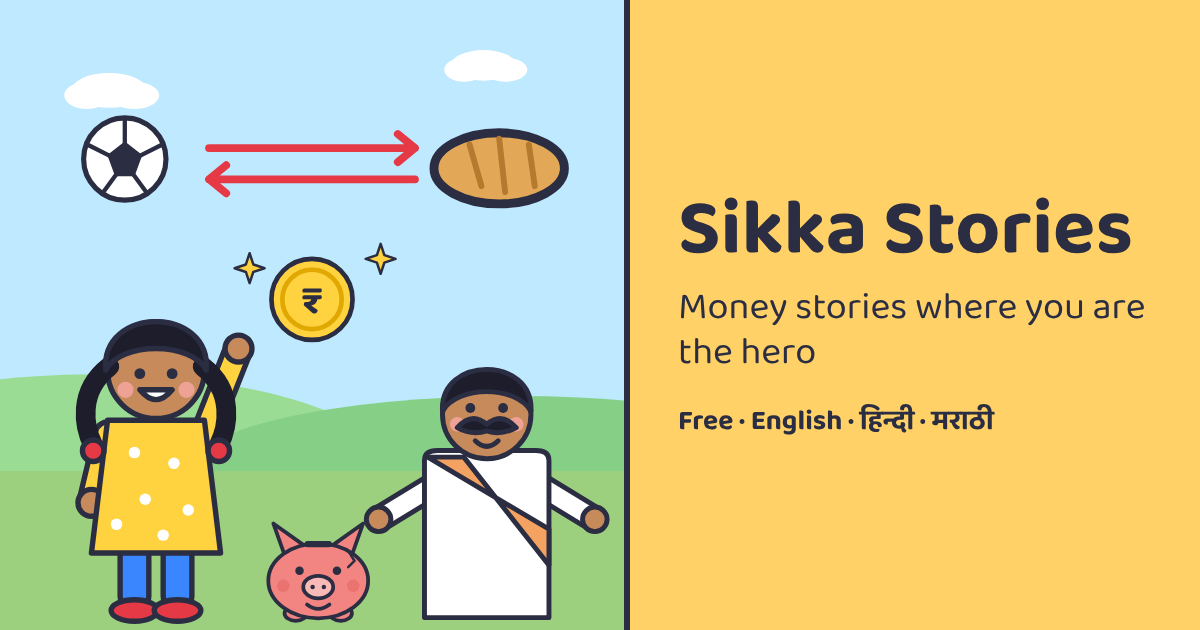
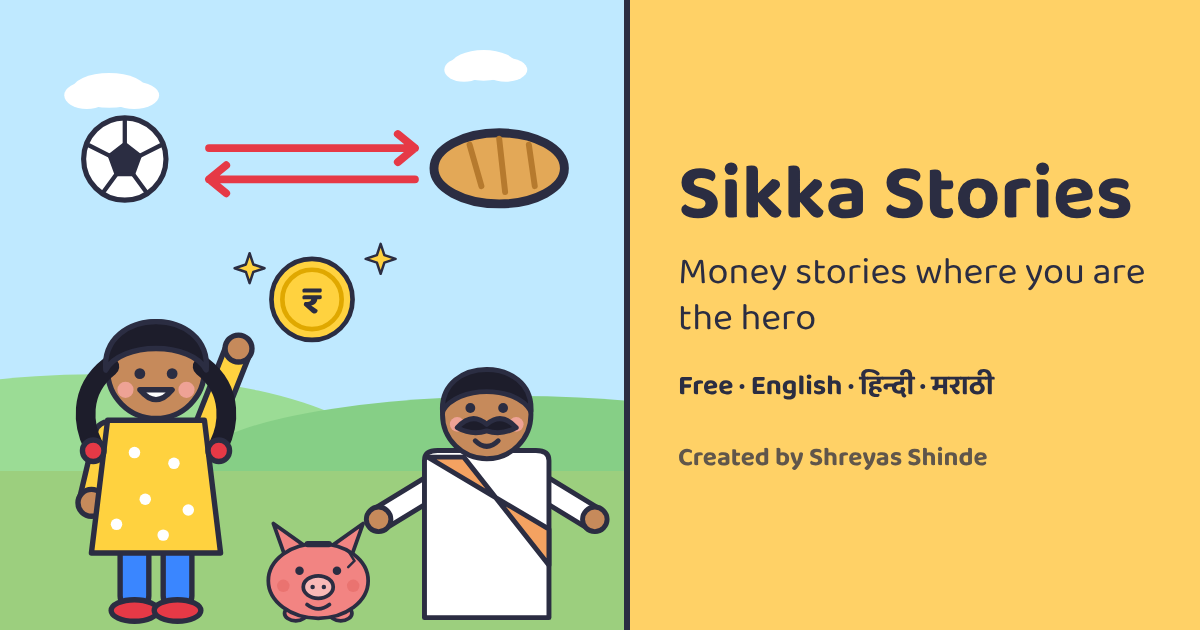
Add files via upload

Changed region(s): [[0.555, 0.2413, 0.9558, 0.754]]

diff --git a/books.js b/books.js
@@ -5,7 +5,7 @@
 window.SITE = {
   name: { en: "Sikka Stories", hi: "सिक्का स्टोरीज़", mr: "सिक्का स्टोरीज" },
   /* Optional credit line shown in the footer. Leave empty ("") to hide it. */
-  credit: { en: "", hi: "", mr: "" },
+  credit: { en: "Created by Shreyas Shinde, Mumbai", hi: "बनाने वाले: श्रेयस शिंदे, मुंबई", mr: "निर्मिती: श्रेयस शिंदे, मुंबई" },
   /* Optional feedback link, for example a Google Form address. Leave "" to hide the link. */
   feedback: ""
 };
@@ -26,7 +26,7 @@ window.UI = {
     s2: "Read your own adventure",
     s3: "Take the quiz and sign your promise",
     aboutT: "Free for everyone",
-    aboutP: "Short illustrated money stories for Grades 6 to 10, in English, Hindi and Marathi. No sign-up, no ads, nothing to pay. Type your name once and you are the hero of every book. Works on any phone, and every book can be printed.",
+    aboutP: "Short illustrated money stories for children, in English, Hindi and Marathi. No sign-up, no ads, nothing to pay. Type your name once and you are the hero of every book. Works on any phone, and every book can be printed.",
     all: "All",
     ready: "{n} ready to read",
     moreSoon: "More books are coming soon",
@@ -63,7 +63,8 @@ window.UI = {
     library: "Our books",
     read: "Read",
     soon: "Coming soon",
-    level: "Grades 6 to 10",
+    minShort: "About {n} min",
+    timeLine: "About {t} minutes: {s} to read, {q} for the quiz",
     print: "Save as PDF / Print",
     share: "Share on WhatsApp",
     back: "All books",
@@ -90,7 +91,7 @@ window.UI = {
     skip: "Skip to content",
     aboutLink: "About and privacy",
     feedbackLink: "Send feedback",
-    about: {"title": "About Sikka Stories", "items": [["What it is", "Sikka Stories is a free library of short illustrated money stories for Grades 6 to 10, in English, Hindi and Marathi. In every story you are the hero. Each book ends with a quiz and a promise, and can be printed on A5 paper."], ["Your privacy", "No sign-up. No ads. No tracking. No cookies. The name you type and the hero look you choose are saved only on your own phone or computer. They are never sent to us or to anyone else, and a shared link never contains your name. Your stamps are saved the same way. This site loads nothing from other companies, and even the fonts come from the site itself. Like any website, the service that hosts it (GitHub Pages) may keep ordinary server records, and we add no tracking of our own. Only if you tap Share on WhatsApp does WhatsApp open with a link. Clearing your browser data removes your name and stamps."], ["About the numbers", "The numbers in the stories, such as prices, interest rates and exchange rates, are examples to keep the maths easy. Real rates and rules change. These books teach basic ideas and are not investment, tax or legal advice. For a real decision, ask a trusted grown-up or your bank."], ["For teachers and parents", "Every book prints as 12 A5 pages, with an answer key on the last page. Choose Print worksheet only to print just the quiz pages. The books go from easiest (1) to hardest (20)."], ["Found a mistake?", "Please tell us. Every correction helps the next reader."]]}
+    about: {"title": "About Sikka Stories", "items": [["Who made this", "Sikka Stories was created by Shreyas Shinde, a student in Mumbai, as a free project so that young readers can understand how money works."], ["What it is", "Sikka Stories is a free library of short illustrated money stories for children, in English, Hindi and Marathi. In every story you are the hero. Each book ends with a quiz and a promise, and can be printed on A5 paper."], ["Your privacy", "No sign-up. No ads. No tracking. No cookies. The name you type and the hero look you choose are saved only on your own phone or computer. They are never sent to us or to anyone else, and a shared link never contains your name. Your stamps are saved the same way. This site loads nothing from other companies, and even the fonts come from the site itself. Like any website, the service that hosts it (GitHub Pages) may keep ordinary server records, and we add no tracking of our own. Only if you tap Share on WhatsApp does WhatsApp open with a link. Clearing your browser data removes your name and stamps."], ["About the numbers", "The numbers in the stories, such as prices, interest rates and exchange rates, are examples to keep the maths easy. Real rates and rules change. These books teach basic ideas and are not investment, tax or legal advice. For a real decision, ask a trusted grown-up or your bank."], ["For teachers and parents", "Every book prints as 12 A5 pages, with an answer key on the last page. Choose Print worksheet only to print just the quiz pages. The books go from easiest (1) to hardest (20)."], ["Found a mistake?", "Please tell us. Every correction helps the next reader."]]}
   },
   hi: {
     heroBar: "तुम्हारा हीरो",
@@ -107,7 +108,7 @@ window.UI = {
     s2: "अपनी खुद की कहानी पढ़ो",
     s3: "क्विज़ करो और अपना वादा लिखो",
     aboutT: "सबके लिए मुफ़्त",
-    aboutP: "कक्षा 6 से 10 के लिए चित्रों वाली छोटी पैसों की कहानियाँ, अंग्रेज़ी, हिंदी और मराठी में। न साइन-अप, न विज्ञापन, कोई पैसा नहीं। किसी भी फ़ोन पर चलती हैं और हर किताब प्रिंट भी हो सकती है।",
+    aboutP: "बच्चों के लिए चित्रों वाली छोटी पैसों की कहानियाँ, अंग्रेज़ी, हिंदी और मराठी में। न साइन-अप, न विज्ञापन, कोई पैसा नहीं। किसी भी फ़ोन पर चलती हैं और हर किताब प्रिंट भी हो सकती है।",
     all: "सभी",
     ready: "{n} पढ़ने के लिए तैयार",
     moreSoon: "और किताबें जल्द आ रही हैं",
@@ -144,7 +145,8 @@ window.UI = {
     library: "हमारी किताबें",
     read: "पढ़ें",
     soon: "जल्द आ रही है",
-    level: "कक्षा 6 से 10",
+    minShort: "लगभग {n} मिनट",
+    timeLine: "लगभग {t} मिनट: {s} पढ़ने में, {q} क्विज़ में",
     print: "PDF सहेजें / प्रिंट करें",
     share: "WhatsApp पर भेजें",
     back: "सभी किताबें",
@@ -171,7 +173,7 @@ window.UI = {
     skip: "सीधे सामग्री पर जाएँ",
     aboutLink: "परिचय और गोपनीयता",
     feedbackLink: "सुझाव भेजें",
-    about: {"title": "सिक्का स्टोरीज़ के बारे में", "items": [["यह क्या है", "सिक्का स्टोरीज़ कक्षा 6 से 10 के लिए पैसों की छोटी, चित्रों वाली कहानियों का मुफ़्त संग्रह है, अंग्रेज़ी, हिन्दी और मराठी में। हर कहानी में तुम हीरो हो। हर किताब के अंत में एक क्विज़ और एक वादा है, और उसे A5 काग़ज़ पर छापा जा सकता है।"], ["तुम्हारी गोपनीयता", "कोई साइन-अप नहीं। कोई विज्ञापन नहीं। कोई ट्रैकिंग नहीं। कोई कुकी नहीं। तुम्हारा लिखा नाम और चुना हुआ हीरो का रूप सिर्फ़ तुम्हारे अपने फ़ोन या कंप्यूटर में रहता है। वह हमें या किसी और को कभी नहीं भेजा जाता, और शेयर किए गए लिंक में तुम्हारा नाम नहीं होता। तुम्हारे स्टैम्प भी इसी तरह सिर्फ़ तुम्हारे डिवाइस में रहते हैं। यह साइट दूसरी कंपनियों से कुछ भी लोड नहीं करती, फ़ॉन्ट भी इसी साइट से आते हैं। किसी भी वेबसाइट की तरह, इसे चलाने वाली सेवा (GitHub Pages) सामान्य सर्वर रिकॉर्ड रख सकती है, और हम अपनी तरफ़ से कोई ट्रैकिंग नहीं जोड़ते। WhatsApp पर शेयर का बटन दबाने पर ही WhatsApp एक लिंक के साथ खुलता है। ब्राउज़र का डेटा मिटाने पर नाम और स्टैम्प भी मिट जाते हैं।"], ["अंकों के बारे में", "कहानियों में दिए गए अंक, जैसे दाम, ब्याज दरें और विनिमय दरें, हिसाब आसान रखने के लिए उदाहरण हैं। असली दरें और नियम बदलते रहते हैं। ये किताबें बुनियादी बातें सिखाती हैं, निवेश, कर या क़ानूनी सलाह नहीं देतीं। असली फ़ैसले के लिए किसी भरोसेमंद बड़े या अपने बैंक से पूछो।"], ["शिक्षकों और माता-पिता के लिए", "हर किताब 12 A5 पन्नों में छपती है, और आख़िरी पन्ने पर उत्तर-कुंजी है। सिर्फ़ क्विज़ के पन्ने छापने के लिए \"सिर्फ़ वर्कशीट प्रिंट करें\" चुनें। किताबें आसान (1) से कठिन (20) के क्रम में हैं।"], ["कोई ग़लती दिखी?", "कृपया हमें बताएँ। हर सुधार अगले पाठक के काम आता है।"]]}
+    about: {"title": "सिक्का स्टोरीज़ के बारे में", "items": [["इसे किसने बनाया", "सिक्का स्टोरीज़ को मुंबई के विद्यार्थी श्रेयस शिंदे ने बनाया है। यह एक मुफ़्त प्रोजेक्ट है, ताकि युवा पाठक समझ सकें कि पैसा कैसे काम करता है।"], ["यह क्या है", "सिक्का स्टोरीज़ बच्चों के लिए पैसों की छोटी, चित्रों वाली कहानियों का मुफ़्त संग्रह है, अंग्रेज़ी, हिन्दी और मराठी में। हर कहानी में तुम हीरो हो। हर किताब के अंत में एक क्विज़ और एक वादा है, और उसे A5 काग़ज़ पर छापा जा सकता है।"], ["तुम्हारी गोपनीयता", "कोई साइन-अप नहीं। कोई विज्ञापन नहीं। कोई ट्रैकिंग नहीं। कोई कुकी नहीं। तुम्हारा लिखा नाम और चुना हुआ हीरो का रूप सिर्फ़ तुम्हारे अपने फ़ोन या कंप्यूटर में रहता है। वह हमें या किसी और को कभी नहीं भेजा जाता, और शेयर किए गए लिंक में तुम्हारा नाम नहीं होता। तुम्हारे स्टैम्प भी इसी तरह सिर्फ़ तुम्हारे डिवाइस में रहते हैं। यह साइट दूसरी कंपनियों से कुछ भी लोड नहीं करती, फ़ॉन्ट भी इसी साइट से आते हैं। किसी भी वेबसाइट की तरह, इसे चलाने वाली सेवा (GitHub Pages) सामान्य सर्वर रिकॉर्ड रख सकती है, और हम अपनी तरफ़ से कोई ट्रैकिंग नहीं जोड़ते। WhatsApp पर शेयर का बटन दबाने पर ही WhatsApp एक लिंक के साथ खुलता है। ब्राउज़र का डेटा मिटाने पर नाम और स्टैम्प भी मिट जाते हैं।"], ["अंकों के बारे में", "कहानियों में दिए गए अंक, जैसे दाम, ब्याज दरें और विनिमय दरें, हिसाब आसान रखने के लिए उदाहरण हैं। असली दरें और नियम बदलते रहते हैं। ये किताबें बुनियादी बातें सिखाती हैं, निवेश, कर या क़ानूनी सलाह नहीं देतीं। असली फ़ैसले के लिए किसी भरोसेमंद बड़े या अपने बैंक से पूछो।"], ["शिक्षकों और माता-पिता के लिए", "हर किताब 12 A5 पन्नों में छपती है, और आख़िरी पन्ने पर उत्तर-कुंजी है। सिर्फ़ क्विज़ के पन्ने छापने के लिए \"सिर्फ़ वर्कशीट प्रिंट करें\" चुनें। किताबें आसान (1) से कठिन (20) के क्रम में हैं।"], ["कोई ग़लती दिखी?", "कृपया हमें बताएँ। हर सुधार अगले पाठक के काम आता है।"]]}
   },
   mr: {
     heroBar: "तुझा हिरो",
@@ -188,7 +190,7 @@ window.UI = {
     s2: "तुझी स्वतःची गोष्ट वाच",
     s3: "प्रश्नमंजुषा सोडव आणि तुझं वचन लिही",
     aboutT: "सर्वांसाठी मोफत",
-    aboutP: "इयत्ता ६ ते १० साठी चित्रांसह छोट्या पैशांच्या गोष्टी, इंग्रजी, हिंदी आणि मराठीत. साइन-अप नाही, जाहिराती नाहीत, पैसे नाहीत. कोणत्याही फोनवर चालतात आणि प्रत्येक पुस्तक प्रिंटही करता येतं.",
+    aboutP: "मुलांसाठी चित्रांसह छोट्या पैशांच्या गोष्टी, इंग्रजी, हिंदी आणि मराठीत. साइन-अप नाही, जाहिराती नाहीत, पैसे नाहीत. कोणत्याही फोनवर चालतात आणि प्रत्येक पुस्तक प्रिंटही करता येतं.",
     all: "सर्व",
     ready: "{n} वाचायला तयार",
     moreSoon: "आणखी पुस्तके लवकरच येत आहेत",
@@ -225,7 +227,8 @@ window.UI = {
     library: "आमची पुस्तके",
     read: "वाचा",
     soon: "लवकरच येत आहे",
-    level: "इयत्ता ६ ते १०",
+    minShort: "सुमारे {n} मिनिटे",
+    timeLine: "सुमारे {t} मिनिटे: {s} वाचायला, {q} क्विझसाठी",
     print: "PDF जतन करा / प्रिंट करा",
     share: "WhatsApp वर पाठवा",
     back: "सर्व पुस्तके",
@@ -252,7 +255,7 @@ window.UI = {
     skip: "थेट मजकुराकडे जा",
     aboutLink: "परिचय आणि गोपनीयता",
     feedbackLink: "अभिप्राय पाठवा",
-    about: {"title": "सिक्का स्टोरीज बद्दल", "items": [["हे काय आहे", "सिक्का स्टोरीज हा इयत्ता 6 ते 10 साठी पैशांच्या छोट्या, चित्रांच्या गोष्टींचा मोफत संग्रह आहे, इंग्रजी, हिन्दी आणि मराठीत. प्रत्येक गोष्टीत तू हिरो आहेस. प्रत्येक पुस्तकाच्या शेवटी एक क्विझ आणि एक वचन आहे, आणि ते A5 कागदावर छापता येतं."], ["तुझी गोपनीयता", "साइन-अप नाही. जाहिराती नाहीत. ट्रॅकिंग नाही. कुकीज नाहीत. तू लिहिलेलं नाव आणि निवडलेला हिरोचा लुक फक्त तुझ्या स्वतःच्या फोनमध्ये किंवा कॉम्प्युटरमध्ये राहतो. तो आम्हाला किंवा इतर कोणालाही कधीच पाठवला जात नाही, आणि शेअर केलेल्या लिंकमध्ये तुझं नाव नसतं. तुझे स्टॅम्पही अशाच प्रकारे फक्त तुझ्या डिव्हाइसमध्ये राहतात. ही साइट इतर कंपन्यांकडून काहीही लोड करत नाही, फॉन्टसुद्धा याच साइटवरून येतात. कोणत्याही वेबसाइटप्रमाणे, ती चालवणारी सेवा (GitHub Pages) साधे सर्व्हर रेकॉर्ड ठेवू शकते, आणि आम्ही स्वतःचं कोणतंही ट्रॅकिंग जोडत नाही. WhatsApp वर शेअर बटण दाबलं तेव्हाच WhatsApp एका लिंकसह उघडतं. ब्राउझरचा डेटा पुसला की नाव आणि स्टॅम्पही पुसले जातात."], ["आकड्यांबद्दल", "गोष्टींमधले आकडे, जसे की किमती, व्याजदर आणि विनिमय दर, हिशोब सोपा ठेवण्यासाठी उदाहरणं आहेत. खरे दर आणि नियम बदलत असतात. ही पुस्तके मूलभूत गोष्टी शिकवतात, गुंतवणूक, कर किंवा कायदेशीर सल्ला देत नाहीत. खऱ्या निर्णयासाठी एखाद्या विश्वासू मोठ्या व्यक्तीला किंवा तुझ्या बँकेला विचार."], ["शिक्षक आणि पालकांसाठी", "प्रत्येक पुस्तक 12 A5 पानांत छापलं जातं, आणि शेवटच्या पानावर उत्तरसूची आहे. फक्त क्विझची पानं छापण्यासाठी \"फक्त वर्कशीट प्रिंट करा\" निवडा. पुस्तके सोप्या (1) पासून कठीण (20) पर्यंतच्या क्रमाने आहेत."], ["चूक सापडली?", "कृपया आम्हाला सांगा. प्रत्येक दुरुस्ती पुढच्या वाचकाच्या उपयोगी पडते."]]}
+    about: {"title": "सिक्का स्टोरीज बद्दल", "items": [["हे कोणी बनवलं", "सिक्का स्टोरीज ही मुंबईतील विद्यार्थी श्रेयस शिंदे याची निर्मिती आहे. तरुण वाचकांना पैसा कसा चालतो ते समजावं, म्हणून हा मोफत प्रकल्प आहे."], ["हे काय आहे", "सिक्का स्टोरीज हा मुलांसाठी पैशांच्या छोट्या, चित्रांच्या गोष्टींचा मोफत संग्रह आहे, इंग्रजी, हिन्दी आणि मराठीत. प्रत्येक गोष्टीत तू हिरो आहेस. प्रत्येक पुस्तकाच्या शेवटी एक क्विझ आणि एक वचन आहे, आणि ते A5 कागदावर छापता येतं."], ["तुझी गोपनीयता", "साइन-अप नाही. जाहिराती नाहीत. ट्रॅकिंग नाही. कुकीज नाहीत. तू लिहिलेलं नाव आणि निवडलेला हिरोचा लुक फक्त तुझ्या स्वतःच्या फोनमध्ये किंवा कॉम्प्युटरमध्ये राहतो. तो आम्हाला किंवा इतर कोणालाही कधीच पाठवला जात नाही, आणि शेअर केलेल्या लिंकमध्ये तुझं नाव नसतं. तुझे स्टॅम्पही अशाच प्रकारे फक्त तुझ्या डिव्हाइसमध्ये राहतात. ही साइट इतर कंपन्यांकडून काहीही लोड करत नाही, फॉन्टसुद्धा याच साइटवरून येतात. कोणत्याही वेबसाइटप्रमाणे, ती चालवणारी सेवा (GitHub Pages) साधे सर्व्हर रेकॉर्ड ठेवू शकते, आणि आम्ही स्वतःचं कोणतंही ट्रॅकिंग जोडत नाही. WhatsApp वर शेअर बटण दाबलं तेव्हाच WhatsApp एका लिंकसह उघडतं. ब्राउझरचा डेटा पुसला की नाव आणि स्टॅम्पही पुसले जातात."], ["आकड्यांबद्दल", "गोष्टींमधले आकडे, जसे की किमती, व्याजदर आणि विनिमय दर, हिशोब सोपा ठेवण्यासाठी उदाहरणं आहेत. खरे दर आणि नियम बदलत असतात. ही पुस्तके मूलभूत गोष्टी शिकवतात, गुंतवणूक, कर किंवा कायदेशीर सल्ला देत नाहीत. खऱ्या निर्णयासाठी एखाद्या विश्वासू मोठ्या व्यक्तीला किंवा तुझ्या बँकेला विचार."], ["शिक्षक आणि पालकांसाठी", "प्रत्येक पुस्तक 12 A5 पानांत छापलं जातं, आणि शेवटच्या पानावर उत्तरसूची आहे. फक्त क्विझची पानं छापण्यासाठी \"फक्त वर्कशीट प्रिंट करा\" निवडा. पुस्तके सोप्या (1) पासून कठीण (20) पर्यंतच्या क्रमाने आहेत."], ["चूक सापडली?", "कृपया आम्हाला सांगा. प्रत्येक दुरुस्ती पुढच्या वाचकाच्या उपयोगी पडते."]]}
   }
 };
 

diff --git a/book.html b/book.html
@@ -2,14 +2,15 @@
 <html lang="en">
 <head>
 <meta charset="utf-8">
+<meta name="author" content="Shreyas Shinde">
 <meta name="viewport" content="width=device-width, initial-scale=1">
 <title>Book</title>
 <meta name="theme-color" content="#ffd166">
 <meta property="og:type" content="website">
 <meta property="og:site_name" content="Sikka Stories">
 <meta property="og:title" content="A money story where you are the hero">
-<meta property="og:description" content="Free illustrated money stories for Grades 6 to 10 in English, Hindi and Marathi.">
-<meta property="og:image" content="https://sikkastories.github.io/og.png">
+<meta property="og:description" content="Free illustrated money stories for children in English, Hindi and Marathi.">
+<meta property="og:image" content="https://sikka-stories.github.io/sikkastories/og.png">
 <meta name="twitter:card" content="summary_large_image">
 <link rel="icon" href="icon.svg" type="image/svg+xml">
 <link rel="apple-touch-icon" href="icon-192.png">
@@ -134,9 +135,10 @@
 
     /* Page 1: cover, personalised */
     var cover = document.createElement("section");
+    var rt = App.readTime(book, lang);
     cover.className = "pg cover";
     cover.style.background = book.color;
-    cover.innerHTML = '<p class="starring">' + esc(t.starring) + ": " + esc(hero.name) + "</p><h1>" + esc(title) + '</h1><p class="sub">' + esc(book.subtitle[lang]) + '</p><div class="coverart"></div><span class="pn">1</span>';
+    cover.innerHTML = '<p class="starring">' + esc(t.starring) + ": " + esc(hero.name) + "</p><h1>" + esc(title) + '</h1><p class="sub">' + esc(book.subtitle[lang]) + '</p><div class="coverart"></div><p class="time">' + esc(t.timeLine.replace("{t}", rt.total).replace("{s}", rt.story).replace("{q}", rt.quiz)) + '</p><p class="by">' + esc(SITE.credit[lang] || "") + '</p><span class="pn">1</span>';
     cover.querySelector(".coverart").style.background = SKY[0];
     cover.querySelector(".coverart").innerHTML = Art.scene(0, hero.g, book.slug);
     root.appendChild(cover);
@@ -253,6 +255,7 @@
       t.thinkT + ": " + r.think.map(function (i) { return tpl(i.opts[i.a]); }).join(", ")
     ];
     p12.appendChild(mk("p", "key", "<b>" + esc(t.answers) + "</b><br>" + key.map(esc).join("<br>")));
+    p12.appendChild(mk("p", "by", esc(SITE.name[lang]) + " · " + esc(SITE.credit[lang] || "") + (/^https?:$/.test(location.protocol) ? "<br>" + esc(location.host + location.pathname.replace(/[^\/]*$/, "").replace(/\/$/, "")) : "")));
     p12.appendChild(mk("span", "pn", "12"));
     root.appendChild(p12);
     var stampMsg = mk("p", "stampmsg no-print");

diff --git a/index.html b/index.html
@@ -2,6 +2,7 @@
 <html lang="en">
 <head>
 <meta charset="utf-8">
+<meta name="author" content="Shreyas Shinde">
 <meta name="viewport" content="width=device-width, initial-scale=1">
 <title>Sikka Stories</title>
 <meta name="description" content="Free money lessons as short illustrated story books in English, Hindi and Marathi. You are the hero of every story.">
@@ -9,8 +10,8 @@
 <meta property="og:type" content="website">
 <meta property="og:site_name" content="Sikka Stories">
 <meta property="og:title" content="Sikka Stories: money stories where you are the hero">
-<meta property="og:description" content="Free illustrated money stories for Grades 6 to 10 in English, Hindi and Marathi.">
-<meta property="og:image" content="https://sikkastories.github.io/og.png">
+<meta property="og:description" content="Free illustrated money stories for children in English, Hindi and Marathi.">
+<meta property="og:image" content="https://sikka-stories.github.io/sikkastories/og.png">
 <meta name="twitter:card" content="summary_large_image">
 <link rel="icon" href="icon.svg" type="image/svg+xml">
 <link rel="apple-touch-icon" href="icon-192.png">
@@ -24,6 +25,7 @@
     <div class="herotext">
       <h1 id="h1"></h1>
       <p id="tag"></p>
+      <p class="byline" id="byline"></p>
       <div id="herochip" class="chipwrap"></div>
       <p class="count" id="count"></p>
       <p class="order" id="order"></p>
@@ -62,6 +64,7 @@
   document.title = SITE.name[lang];
   $("h1").textContent = SITE.name[lang];
   $("tag").textContent = t.tagline;
+  $("byline").textContent = (SITE.credit && SITE.credit[lang]) || "";
   $("lib").textContent = t.library;
   $("how-t").textContent = t.howT;
   $("about-t").textContent = t.aboutT;
@@ -120,7 +123,7 @@
         '<div class="body"><span class="tag"><b class="num">' + (BOOKS.indexOf(b) + 1) + "</b> · " + App.esc(b.topic[lang]) + "</span>" +
         '<span class="name">' + App.esc(title) + "</span>" +
         (live ? (stamps.indexOf(b.slug) >= 0 ? '<span class="pill done">&#10003; ' + App.esc(t.stampDone) + "</span>" : '<span class="pill">' + App.esc(t.read) + "</span>") : '<span class="pill grey">' + App.esc(t.soon) + "</span>") +
-        '<span class="meta">' + App.esc(t.level) + " · " + App.esc(t.pages) + "</span></div>";
+        '<span class="meta">' + App.esc(t.minShort.replace("{n}", App.readTime(b, lang).total)) + " · " + App.esc(t.pages) + "</span></div>";
       return live
         ? '<a class="card" href="book.html?b=' + b.slug + "&lang=" + lang + '">' + inner + "</a>"
         : '<div class="card soon">' + inner + "</div>";

diff --git a/app.js b/app.js
@@ -25,6 +25,20 @@
     });
   }
 
+
+  /* Reading time, worked out from the words in each book so it stays right when books change.
+     Story: words at a child's reading speed, plus 15 seconds to look at each of the 4 pictures.
+     Quiz: 20 seconds per question. Rounded up to whole minutes. */
+  var WPM = { en: 110, hi: 80, mr: 70 };
+  function readTime(book, lang) {
+    var words = book.story[lang].join(" ").split(/\s+/).length;
+    var r = book.recap[lang];
+    var qs = r.fill.items.length + r.sort.length + r.tf.length + r.think.length;
+    var s = Math.max(1, Math.ceil((words / WPM[lang] * 60 + book.story[lang].length * 15) / 60));
+    var q = Math.max(1, Math.ceil(qs * 20 / 60));
+    return { story: s, quiz: q, total: s + q };
+  }
+
   function chrome(lang) {
     var t = window.UI[lang];
     document.documentElement.lang = lang;
@@ -167,5 +181,5 @@
     window.addEventListener("load", function () { navigator.serviceWorker.register("sw.js").catch(function () {}); });
   }
 
-  window.App = { getStamps: getStamps, addStamp: addStamp, getLang: getLang, chrome: chrome, esc: esc, readHero: readHero, tpl: tpl, heroForm: heroForm, heroChip: heroChip, openHeroModal: openHeroModal };
+  window.App = { readTime: readTime, getStamps: getStamps, addStamp: addStamp, getLang: getLang, chrome: chrome, esc: esc, readHero: readHero, tpl: tpl, heroForm: heroForm, heroChip: heroChip, openHeroModal: openHeroModal };
 })();

diff --git a/sw.js b/sw.js
@@ -1,6 +1,6 @@
 /* Offline support. Network first, so updates always show when online;
    the saved copy is used only when there is no internet. */
-var V = "ss-v1";
+var V = "ss-v3";
 var CORE = ["./", "index.html", "book.html", "style.css", "app.js", "art.js", "books.js", "icon.svg", "manifest.webmanifest", "about.html",
   "fonts/baloo-2-latin-400-normal.woff2", "fonts/baloo-2-latin-700-normal.woff2", "fonts/baloo-2-devanagari-400-normal.woff2", "fonts/baloo-2-devanagari-700-normal.woff2",
   "fonts/noto-sans-devanagari-latin-400-normal.woff2", "fonts/noto-sans-devanagari-latin-700-normal.woff2", "fonts/noto-sans-devanagari-devanagari-400-normal.woff2", "fonts/noto-sans-devanagari-devanagari-700-normal.woff2"];

diff --git a/style.css b/style.css
@@ -312,3 +312,13 @@ footer a { color: inherit; }
   .skip, .stampmsg, .stampsbar { display: none !important; }
   body.print-ws .pg.cover, body.print-ws .spread { display: none !important; }
 }
+
+/* Creator credit */
+.byline { margin: 4px 0 12px; font-size: 16px; font-weight: 700; color: var(--muted); }
+.byline:empty { display: none; }
+.pg .by { margin: 10px 0 0; text-align: center; font-size: 14px; color: var(--muted); line-height: 1.4; }
+.pg.recap .by { margin-top: 14px; }
+@media print { .pg .by { font-size: 9pt; } }
+
+.pg.cover .time { margin: 10px 0 0; text-align: center; font-size: 17px; font-weight: 700; }
+@media print { .pg.cover .time { font-size: 11pt; } }

diff --git a/about.html b/about.html
@@ -2,6 +2,7 @@
 <html lang="en">
 <head>
 <meta charset="utf-8">
+<meta name="author" content="Shreyas Shinde">
 <meta name="viewport" content="width=device-width, initial-scale=1">
 <title>About | Sikka Stories</title>
 <meta name="description" content="About Sikka Stories: free illustrated money stories, and how we protect your privacy.">

diff --git a/404.html b/404.html
@@ -2,6 +2,7 @@
 <html lang="en">
 <head>
 <meta charset="utf-8">
+<meta name="author" content="Shreyas Shinde">
 <meta name="viewport" content="width=device-width, initial-scale=1">
 <title>Page not found | Sikka Stories</title>
 <link rel="icon" href="icon.svg" type="image/svg+xml">
